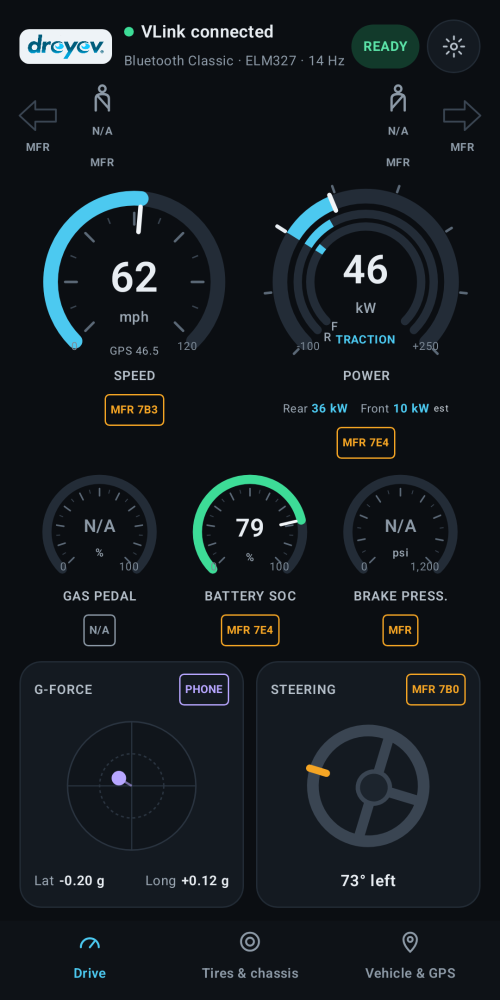
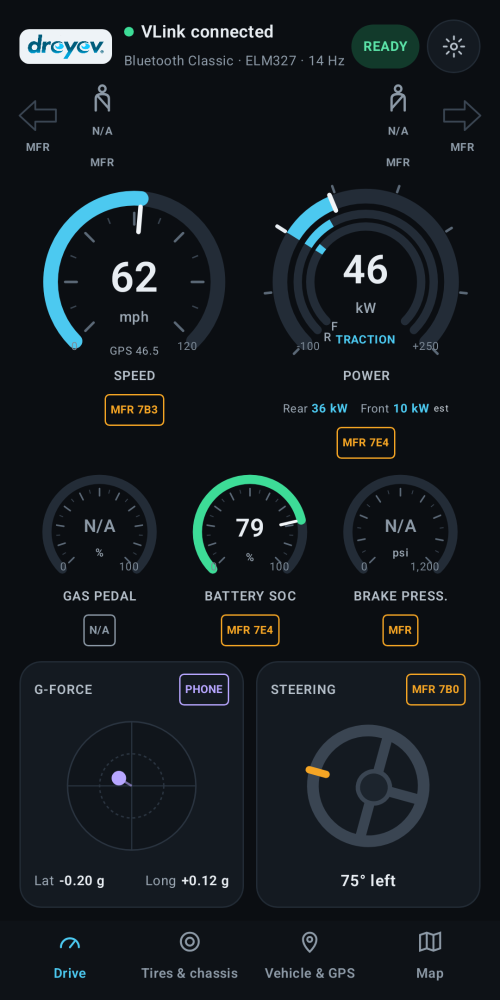
Update Play docs and store screenshots for the Google Maps tab
- permissions: INTERNET + ACCESS_NETWORK_STATE; Data safety now uses the Maps answers
- privacy policy and listing mention the map
- RELEASE.md: Maps key for release builds, restricted to the Play app-signing SHA-1
- store screenshots re-rendered with the 4-tab bar; Vehicle and Map tabs left for
  phone captures since Paparazzi can't draw Google Maps

Claude-Session: https://claude.ai/code/session_01GQaZWVCywDfchW3ShHi2bq

diff --git a/docs/privacy-policy.html b/docs/privacy-policy.html
@@ -21,7 +21,7 @@
 <h1>dreyev VLink Privacy Policy</h1>
 <p class="muted">Effective November 28, 2026</p>
 
-<p>dreyev VLink ("the app") shows live data from your car on your Android phone, using an OBD-II Bluetooth adapter. This policy explains what the app handles and where it goes. In short: the app has no accounts, no ads and no analytics, and your car's data stays on your phone.</p>
+<p>dreyev VLink ("the app") shows live data from your car on your Android phone, using an OBD-II Bluetooth adapter. This policy explains what the app handles and where it goes. In short: the app has no accounts, no ads and no analytics. Your car's data stays on your phone; the only thing that goes online is Google Maps loading the map around you.</p>
 
 <h2>Data the app uses on your phone</h2>
 <ul>
@@ -36,7 +36,7 @@
 <h2>When data leaves your phone</h2>
 <ul>
   <li><strong>When you share it.</strong> If you tap Share on a log, Android lets you choose where it goes (email, Drive, Files and so on). That transfer is your choice and is governed by the app you pick.</li>
-  <li><strong>Google Maps.</strong> In versions with the map, when the map is shown, the app uses the Google Maps SDK for Android, which downloads map tiles from Google. Those requests tell Google roughly which area is on screen. Google's use of this data is covered by the <a href="https://policies.google.com/privacy">Google Privacy Policy</a> and the <a href="https://cloud.google.com/maps-platform/terms">Google Maps Platform Terms</a>. Your drive trace is drawn on your phone and is not uploaded.</li>
+  <li><strong>Google Maps.</strong> When a map is shown (the Map tab and the GPS card), the app uses the Google Maps SDK for Android, which downloads map tiles from Google. Those requests tell Google roughly which area is on screen. Google's use of this data is covered by the <a href="https://policies.google.com/privacy">Google Privacy Policy</a> and the <a href="https://cloud.google.com/maps-platform/terms">Google Maps Platform Terms</a>. Your drive trace is drawn on your phone and is not uploaded.</li>
   <li><strong>Android backup.</strong> If you've turned on Android backup, Android may back up the app's settings to your Google account, as it does for other apps. You control this in your phone's settings.</li>
 </ul>
 <p>The app has no advertising, analytics, crash-reporting or tracking SDKs, and we don't sell or share data with anyone.</p>
@@ -47,7 +47,7 @@
   <li><strong>Location</strong>: for GPS speed, heading and the drive trace. On Android 8 to 11, Android also requires it for Bluetooth LE scanning.</li>
   <li><strong>Notifications</strong>: for the notification that shows while the app keeps the adapter connected in the background.</li>
   <li><strong>Storage</strong> (Android 8 and 9 only): to save logs to the Downloads folder.</li>
-  <li><strong>Internet</strong> (in versions with the map): to load Google Maps tiles.</li>
+  <li><strong>Internet</strong>: to load Google Maps tiles. The app has no other network use.</li>
 </ul>
 
 <h2>Keeping and deleting data</h2>

diff --git a/app/src/test/java/com/dreyev/vlink/StoreScreenshotTest.kt b/app/src/test/java/com/dreyev/vlink/StoreScreenshotTest.kt
@@ -64,7 +64,8 @@ private fun storeImageWriter(dir: File): SnapshotHandler {
 /**
  * Google Play store screenshots in a 2:1 phone frame. Paparazzi caps output at 1000 px, so they
  * come out 500×1000 (Play accepts 320–3840 px, at most 2:1); real phone screenshots look sharper.
- * Not part of the normal snapshot check; regenerate with
+ * The Vehicle and Map tabs are left out: Paparazzi can't draw Google Maps, so take those two on
+ * the phone. Not part of the normal snapshot check; regenerate with
  *   VLINK_STORE_SHOTS=1 ./gradlew :app:testPlayDebugUnitTest --tests '*StoreScreenshotTest'
  * and the PNGs land in docs/play-store/screenshots/.
  */
@@ -104,10 +105,9 @@ class StoreScreenshotTest {
     @Test fun store1DriveEv() = screen(Tab.DRIVE, TestStates.ev(TestStates.simulated()))
     @Test fun store2Drive() = screen(Tab.DRIVE, TestStates.simulated())
     @Test fun store3Tires() = screen(Tab.TIRES, TestStates.simulated())
-    @Test fun store4Vehicle() = screen(Tab.VEHICLE, TestStates.ev(TestStates.simulated()))
-    @Test fun store5DriveLight() = screen(Tab.DRIVE, TestStates.simulated(), ThemeMode.LIGHT)
+    @Test fun store4DriveLight() = screen(Tab.DRIVE, TestStates.simulated(), ThemeMode.LIGHT)
 
-    @Test fun store6Landscape() {
+    @Test fun store5Landscape() {
         paparazzi.unsafeUpdateConfig(phone.copy(orientation = ScreenOrientation.LANDSCAPE, screenWidth = 2160, screenHeight = 1080))
         val s = TestStates.ev(TestStates.simulated())
         paparazzi.snapshot { VLinkTheme { Box(Modifier.fillMaxSize().background(C.bg)) { DriveLandscape(s, UnitPrefs()) } } }

diff --git a/docs/play-store/RELEASE.md b/docs/play-store/RELEASE.md
@@ -35,7 +35,16 @@ keyPassword=…
 
 Or set the environment variables `VLINK_UPLOAD_STORE_FILE`, `VLINK_UPLOAD_STORE_PASSWORD`, `VLINK_UPLOAD_KEY_ALIAS`, `VLINK_UPLOAD_KEY_PASSWORD` (handy for CI). Without either, release builds come out unsigned and Play rejects them.
 
-## 3. Build the bundle
+## 3. Google Maps key for release builds
+
+The release AAB needs `MAPS_API_KEY` in `local.properties` (or the environment), like debug builds; without it the map shows a "needs a key" placeholder. In Google Cloud Console, restrict the key to **Maps SDK for Android** and to these apps:
+
+* package `com.dreyev.vlink` + the SHA-1 of Google's **app signing key** (Play Console › Test and release › App integrity › App signing). Play re-signs your upload, so the upload key's SHA-1 alone won't work for users who install from Play.
+* package `com.dreyev.vlink` + your upload key's SHA-1, and `com.dreyev.vlink.sideload` + the SHA-1 you sign the AA build with, for your own installs.
+
+`keytool -list -v -keystore ~/keys/dreyev-vlink-upload.jks -alias upload` prints the upload key's SHA-1.
+
+## 4. Build the bundle
 
 ```
 ./gradlew :app:bundlePlayRelease
@@ -45,7 +54,7 @@ Upload `app/build/outputs/bundle/playRelease/app-play-release.aab` in Play Conso
 
 Check it's signed: `jarsigner -verify app/build/outputs/bundle/playRelease/app-play-release.aab` should print `jar verified.`
 
-## 4. Every later update
+## 5. Every later update
 
 1. Raise `versionCode` by 1 in `app/build.gradle.kts` (Play refuses a code it has seen). Change `versionName` (shown to users) as you like.
 2. `./gradlew :app:bundlePlayRelease` and upload.
@@ -67,6 +76,6 @@ The Play app and the AA build have different package names, so both can be insta
 
 * `docs/play-store/graphics/icon-512.png`: Play icon (512×512)
 * `docs/play-store/graphics/feature-graphic-1024x500.png`: feature graphic
-* `docs/play-store/screenshots/*.png`: phone screenshots, 500×1000 (2:1), rendered from the real UI with simulated data. Regenerate with
+* `docs/play-store/screenshots/*.png`: phone screenshots, 500×1000 (2:1), rendered from the real UI with simulated data. The Map and Vehicle & GPS tabs aren't included (the renderer can't draw Google Maps); capture those on your phone. Regenerate with
   `VLINK_STORE_SHOTS=1 ./gradlew :app:testPlayDebugUnitTest --tests '*StoreScreenshotTest'`.
   Real screenshots from your phone (Power + Volume down) look sharper and are just as valid.

diff --git a/docs/play-store/permissions-and-data-safety.md b/docs/play-store/permissions-and-data-safety.md
@@ -13,7 +13,7 @@ Paste these where Play Console asks, and use them in the privacy policy.
 | `FOREGROUND_SERVICE_LOCATION` | Keep phone GPS readings going during that same user-started session (speed comparison, trace, trip logs). |
 | `POST_NOTIFICATIONS` | Show the required "connected to adapter" notification for the foreground service. |
 | `WRITE_EXTERNAL_STORAGE` (Android 8–9 only, `maxSdkVersion 28`) | Copy trip and signal-finder logs to Downloads/dreyev-vlink. Android 10+ uses MediaStore and needs no storage permission. |
-| `INTERNET` (only once the map tab ships) | Load Google Maps tiles for the map. |
+| `INTERNET`, `ACCESS_NETWORK_STATE` | Load Google Maps tiles for the Map tab and the GPS card, and show a placeholder when offline. The app has no other network use. |
 
 The app does **not** request `ACCESS_BACKGROUND_LOCATION`, contacts, camera, microphone, or broad storage access.
 
@@ -36,12 +36,12 @@ Play asks for a short video link for each. Record a 30-second screen capture (De
 
 Play defines "collected" as data sent off the device. Data that stays on the phone (settings, logs in Downloads, the VIN) is not collected. Android's own backup to the user's Google account is also exempt.
 
-### Version 1 (no map, no INTERNET permission)
+### Without the map (builds before the Maps tab, kept for reference)
 
 * Does your app collect or share any of the required user data types? **No**
 * That's the whole form. Play then shows "No data collected" and "No data shared".
 
-### Once the Google Maps tab ships (INTERNET + Maps SDK)
+### Current app, with Google Maps (use this)
 
 Google's Maps SDK sends requests to Google that reveal the map area being viewed, and Google's SDK disclosure lists data it handles. Answer:
 
@@ -53,7 +53,7 @@ Google's Maps SDK sends requests to Google that reveal the map area being viewed
   * **App info and performance › Crash logs / Diagnostics**: only if the Maps SDK version you ship says so in Google's "Maps SDK for Android data disclosure"; check that page when the map lands.
 * Precise location: **not** collected or shared (the trace is drawn on the phone; only map tiles are fetched).
 
-Update `docs/privacy-policy.html` at the same time (it already has a Google Maps section).
+`docs/privacy-policy.html` already covers Google Maps.
 
 ## Other App content answers
 

diff --git a/docs/play-store/listing.md b/docs/play-store/listing.md
@@ -18,6 +18,7 @@ WHAT YOU SEE
 • Drive: speed, RPM or electric power, pedal position, engine load, brake pressure, steering angle and g-force
 • Tires & chassis: pressure and temperature for each tire, wheel speeds, brake pedal
 • Vehicle & GPS: VIN, odometer, outside temperature, drive state, and phone GPS
+• Map: a full-screen Google map with your drive trace
 • Portrait and landscape layouts, dark and light themes
 
 ELECTRIC CARS
@@ -33,7 +34,7 @@ TRIP AND SIGNAL LOGS
 Record trips to CSV and use the built-in signal finder to explore your car's data. Logs are saved to Downloads/dreyev-vlink on your phone, and you choose whether to share them.
 
 PRIVATE BY DESIGN
-No account, no ads and no analytics. Your car's data stays on your phone.
+No account, no ads and no analytics. Your car's data stays on your phone. The map is loaded from Google Maps.
 
 WHAT YOU NEED
 • A VLink or other ELM327-compatible OBD-II adapter (Bluetooth Classic or BLE)
@@ -62,7 +63,7 @@ dreyev VLink is not affiliated with Vgate, Hyundai, or any car maker.
 |---|---|---|
 | App icon | `graphics/icon-512.png` | 512×512 PNG |
 | Feature graphic | `graphics/feature-graphic-1024x500.png` | 1024×500 PNG/JPEG |
-| Phone screenshots | `screenshots/01…06*.png` | 2–8 images, 320–3840 px, max 2:1 |
+| Phone screenshots | `screenshots/01…05*.png`, plus the Map and Vehicle & GPS tabs captured on your phone | 2–8 images, 320–3840 px, max 2:1 |
 
 ## App access (for reviewers)
 
